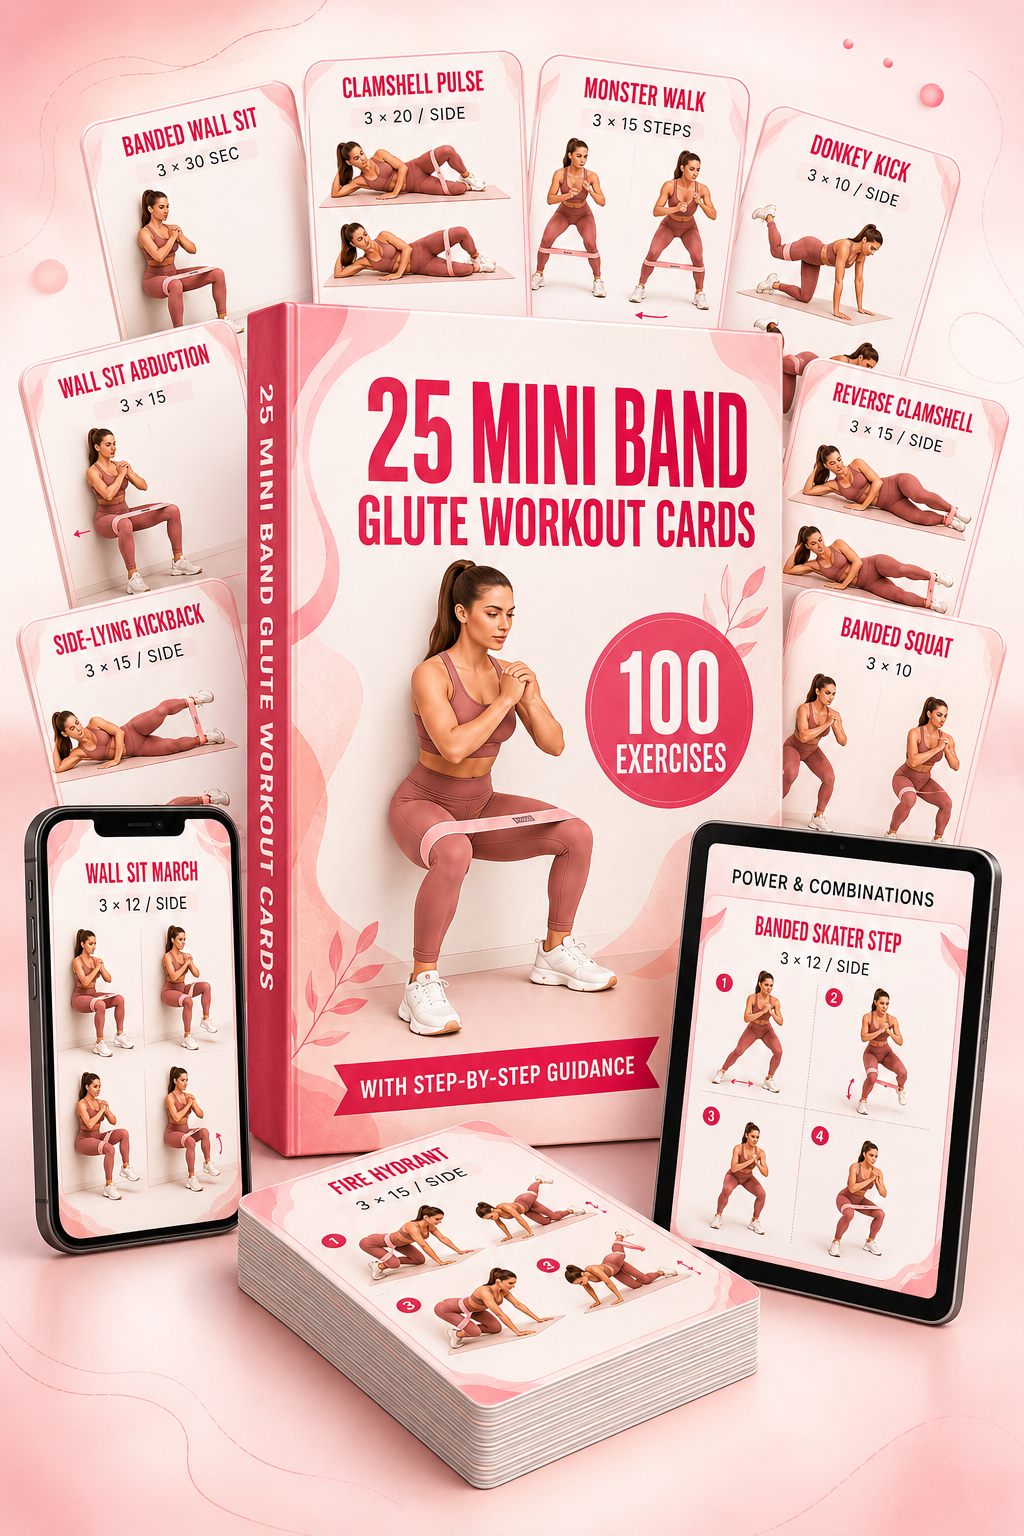
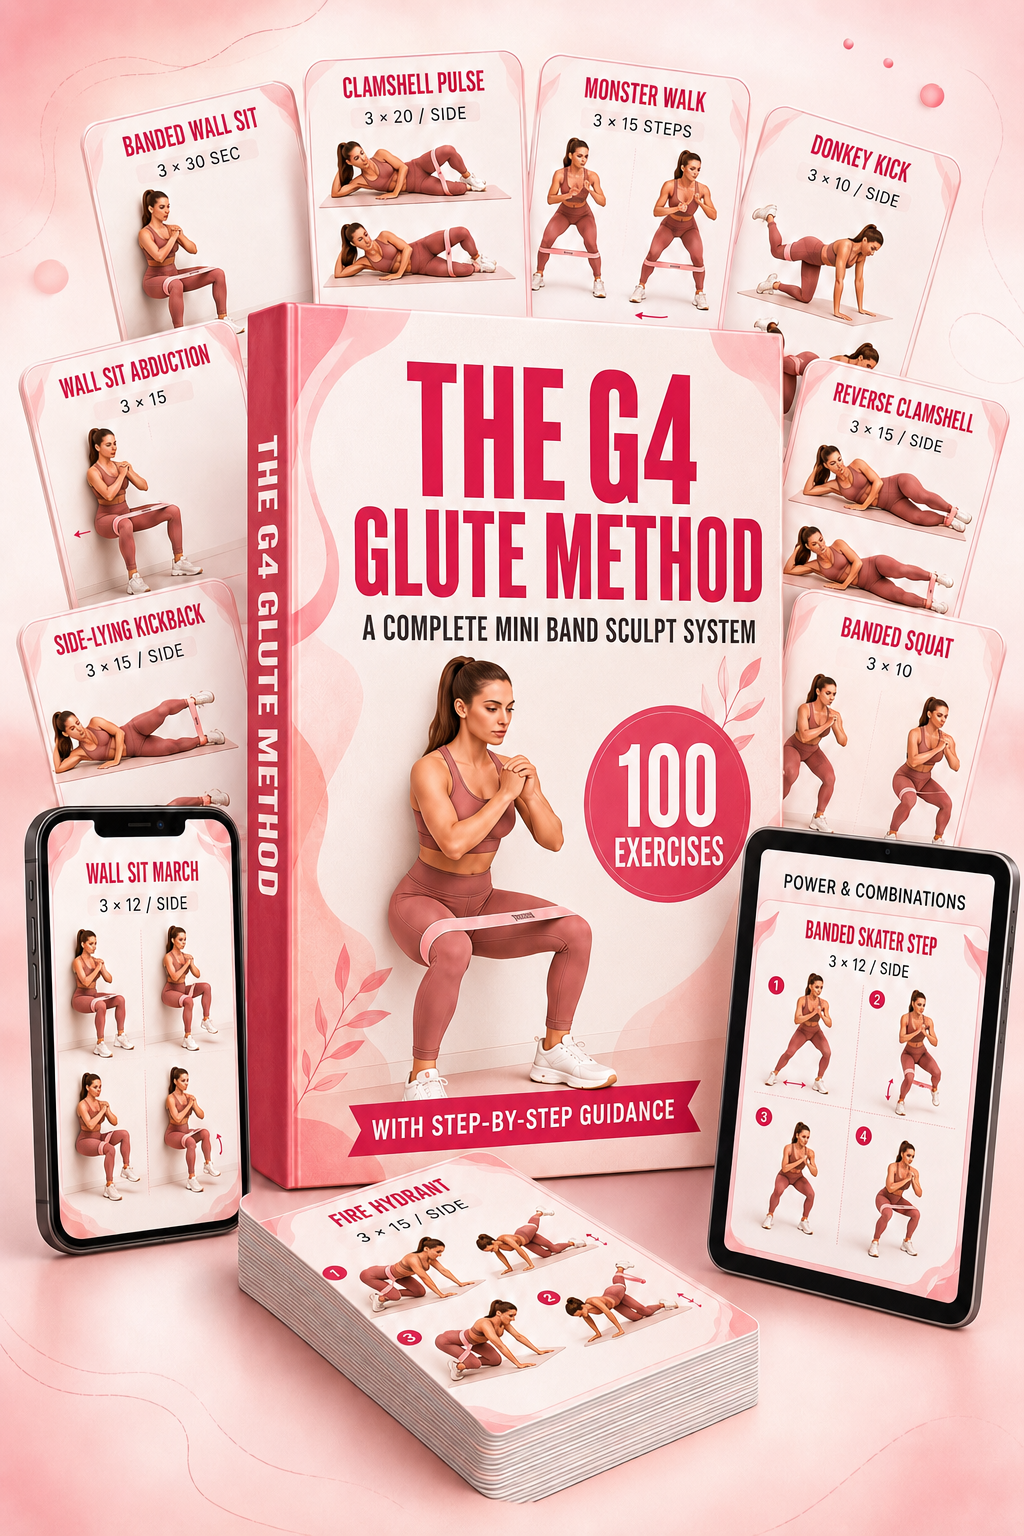
Substitui mockup.png pela nova arte "The G4 Glute Method"
Troca a imagem do Hero pela nova versão enviada (caixa "THE G4 GLUTE
METHOD - A Complete Mini Band Sculpt System"), alinhada ao nome G4
já usado no texto da página. Adiciona cantos arredondados (rounded-2xl)
à imagem no desktop e mobile.

Claude-Session: https://claude.ai/code/session_01Np8rzEQWYxMbxXjgwWqq1a

diff --git a/src/components/Hero.tsx b/src/components/Hero.tsx
@@ -24,8 +24,8 @@ export function Hero() {
           <div className="my-8 flex items-center justify-center lg:hidden">
             <img
               src="/mockup.png"
-              alt="25 Mini Band Glute Workout Cards — mockup do material com cards de movimentos, celular e tablet"
-              className="h-auto w-[90%] object-contain"
+              alt="The G4 Glute Method — mockup do material com cards de movimentos, celular e tablet"
+              className="h-auto w-[90%] rounded-2xl object-contain"
             />
           </div>
 
@@ -64,8 +64,8 @@ export function Hero() {
         <div className="hidden items-center justify-center lg:flex lg:w-1/2">
           <img
             src="/mockup.png"
-            alt="25 Mini Band Glute Workout Cards — mockup do material com cards de movimentos, celular e tablet"
-            className="h-auto w-full max-w-xl object-contain"
+            alt="The G4 Glute Method — mockup do material com cards de movimentos, celular e tablet"
+            className="h-auto w-full max-w-xl rounded-2xl object-contain"
           />
         </div>
       </div>
